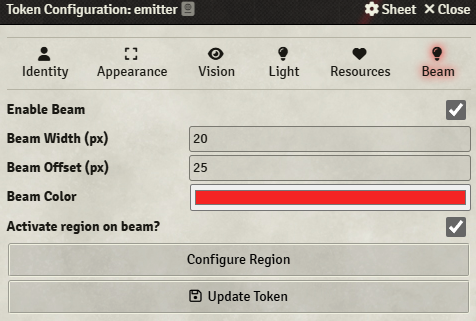
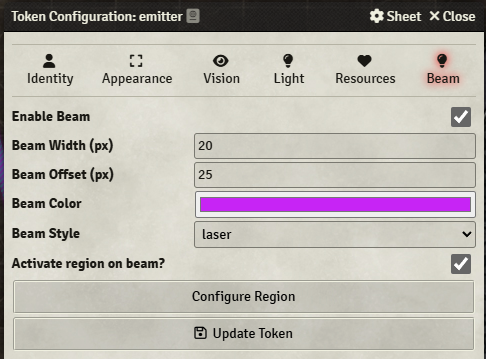
doc: added style explanation

Changed region(s): [[0.0, 0.0, 1.0, 1.0], [0.7647, 0.6854, 0.7941, 0.7165]]

diff --git a/README.md b/README.md
@@ -4,7 +4,7 @@
 - ![Total Download Count](https://img.shields.io/github/downloads/gioppoluca/foundry-beams/total?color=d1b124&label=Total%20Download)
 - ![Forge Installs](https://img.shields.io/badge/dynamic/json?label=Forge%20Installs&query=package.installs&suffix=%25&url=https%3A%2F%2Fforge-vtt.com%2Fapi%2Fbazaar%2Fpackage%2Ffoundry-beams&colorB=4aa94a)
 
-A Foundry VTT module that lets tokens emit animated, glowing beam segments — with support for reflections, shader effects, regions, and module API integration.
+A Foundry VTT module that lets tokens emit animated, styled beam segments — with support for reflections, shader effects, regions, and module API integration.
 The module is system independent.
 
 ![Beam Scene](doc/triggerDoor.png)
@@ -14,7 +14,7 @@ As shown in the image a beam is emitted from the statue it bounces on 2 walls an
 
 ## ✨ Features
 
-- 🔦 Create directional, light beams from tokens
+- 🔦 Create directional, light beams from tokens: beams can have different styles
 - 🔁 Reflect off flagged mirror walls and pass through windows or open doors; wall/mirror can move and beam react accordingly
 - 📐 Generates Foundry v12 Region polygons matching the beam's path
 - 🔌 Provides API methods for other modules to control beam behavior
@@ -33,14 +33,15 @@ Install it as a Foundry VTT module from within the module section.
 ![token configuration](doc/tokenConfig.png)
 2. Use the new **"Beam" tab** to configure:
    - Beam enabled
-   - Color (hex)
    - Width
    - Offset from the center of the token to align the beam start with the token shape
+   - Color (hex)
+   - Style: the style of the beam: actually available laser and lightning
    - If you want to activate a region on the beam
    - Configure the associate region: mind that the region will take a name associated with the token thus if you later change the token name the region at the moment is left orphaned of the beam.
 
 #### WARNINGS
-Token MUST face east since the rotation of the token is used to move the beam and the rotation of 0 is the horizontal line emitting on the right: thus the token part that emit the beam has to be rotated accordingly.
+Token MUST face east since the rotation of the token is used to move the beam and the rotation of 0 is the horizontal line/axes emitting on the right: thus the token part that emit the beam has to be rotated accordingly.
 You cannot use the rotation of the token to try to align it with the beam.
 
 ### Make Walls Reflective
